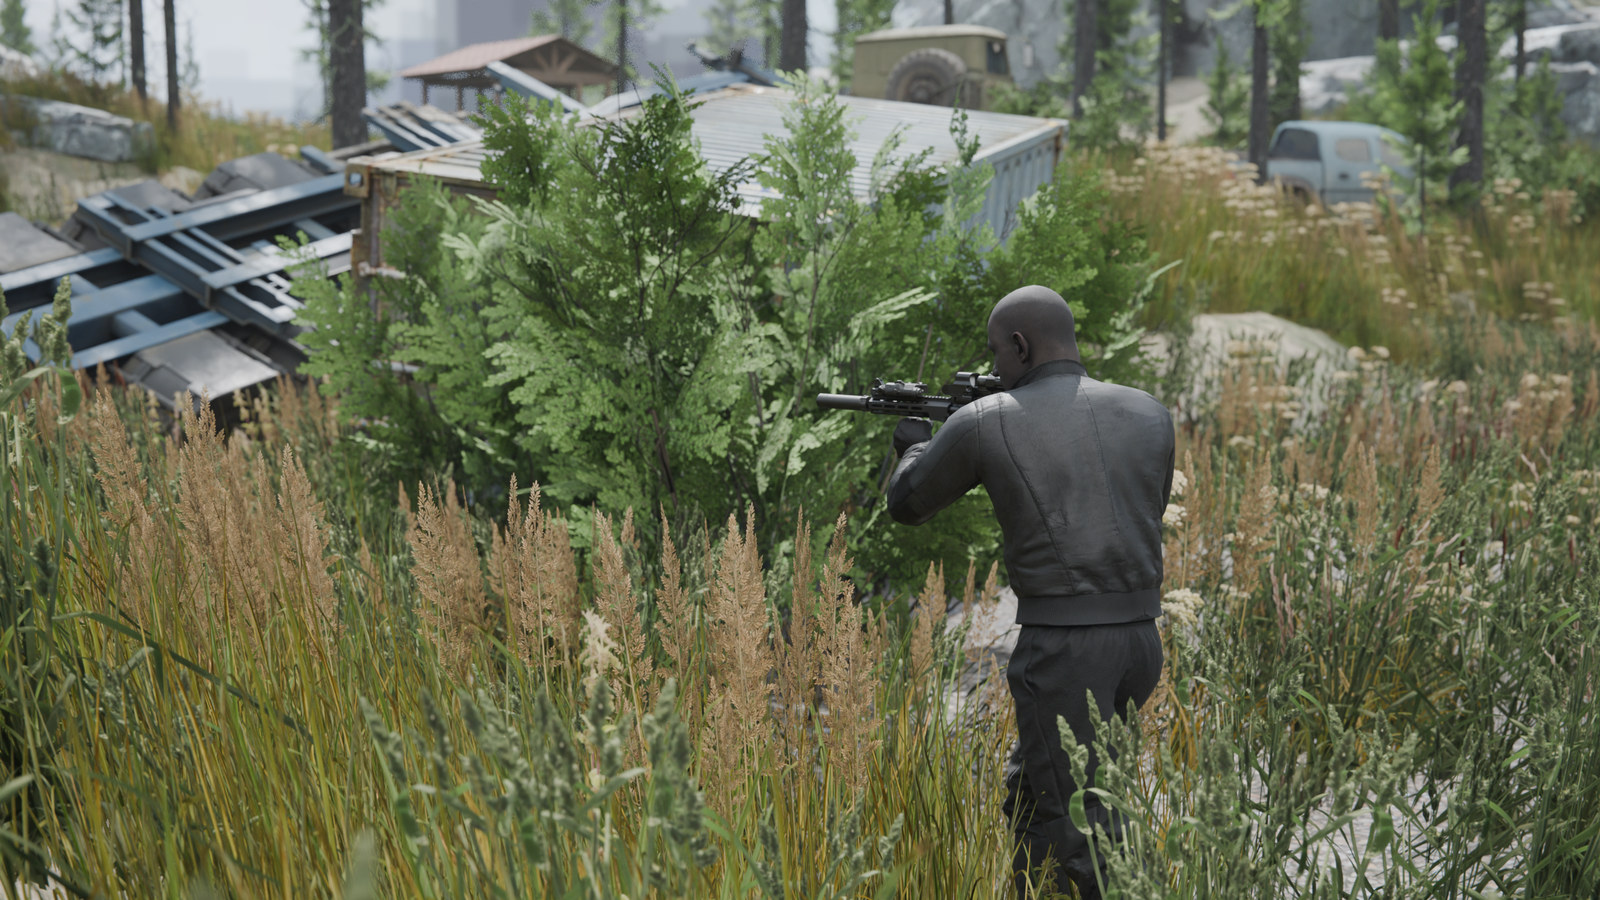
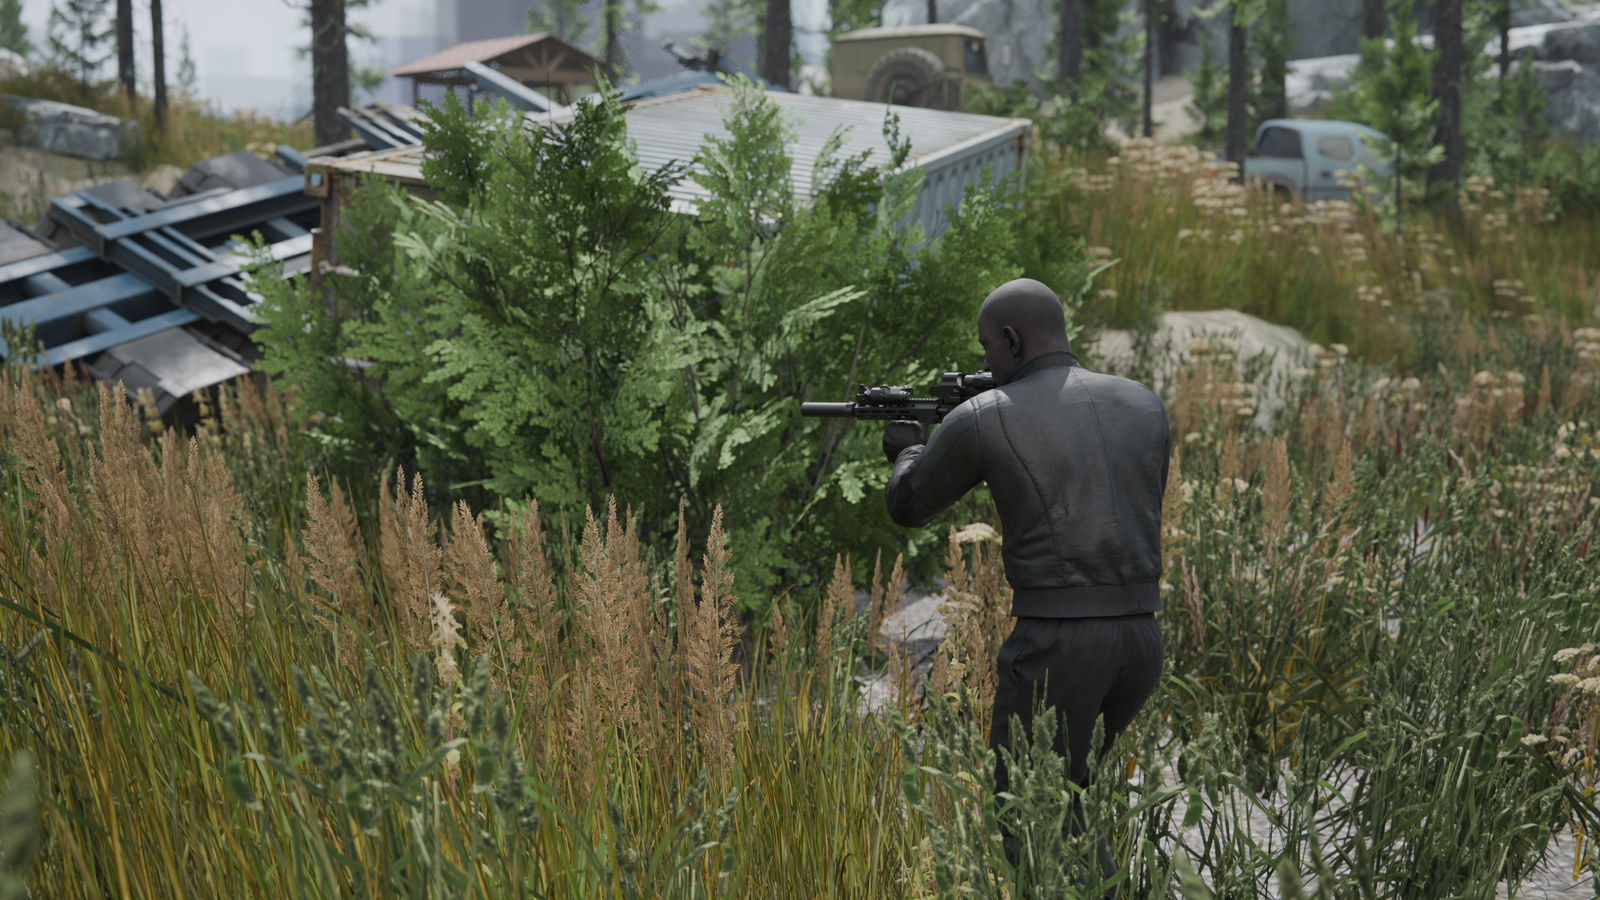
readme: the landing page leads with the ZoneBearCamp checkpoint
Two frames from one solved walk through the wooded bot zone replace the
single one that was there. The checkpoint goes first: the yellow van, the
marked containers, the tyre stack, the guard booth and the generator, at a
depth the aerial perspective has something to act on, and it reads as a
place rather than as a rendering test. The scav camp keeps its slot but is
now the frame six earlier and a metre closer, where the actor is large
enough to read as a person and the camp behind him resolves.

The other three are unchanged and were not improved on. The mall interior
stays because the newer interior candidate carried a dark leaning panel
across the bottom-left tenth of the frame and a heavier teal cast for the
same claim; the power station frame stays because the page needs a
game-accurate one; the labelled comparison stays because it is the only
image that shows both modes at one camera.

Five images, 1600 px wide, 1.52 MB for the set. Both new files are q88
4:4:4 progressive JPEG like the rest.

diff --git a/README.md b/README.md
@@ -8,6 +8,10 @@ cascaded shadows, baked SH global illumination, SSAO / SSR / TAA, volumetric sun
 The images below are offline Cycles renders of the same extracted packs, built by the Blender
 importer in `tools/blender/`. They are not viewer frames.
 
+![The checkpoint on the forest road, Interchange](docs/img/interchange-bearcamp-checkpoint-photoreal.jpg)
+
+*Interchange, the checkpoint on the ZoneBearCamp forest road. Photoreal mode.*
+
 ![The ULTRA mall central square, Interchange](docs/img/interchange-mall-interior-photoreal.jpg)
 
 *Interchange, the ULTRA mall central square. Photoreal mode.*
